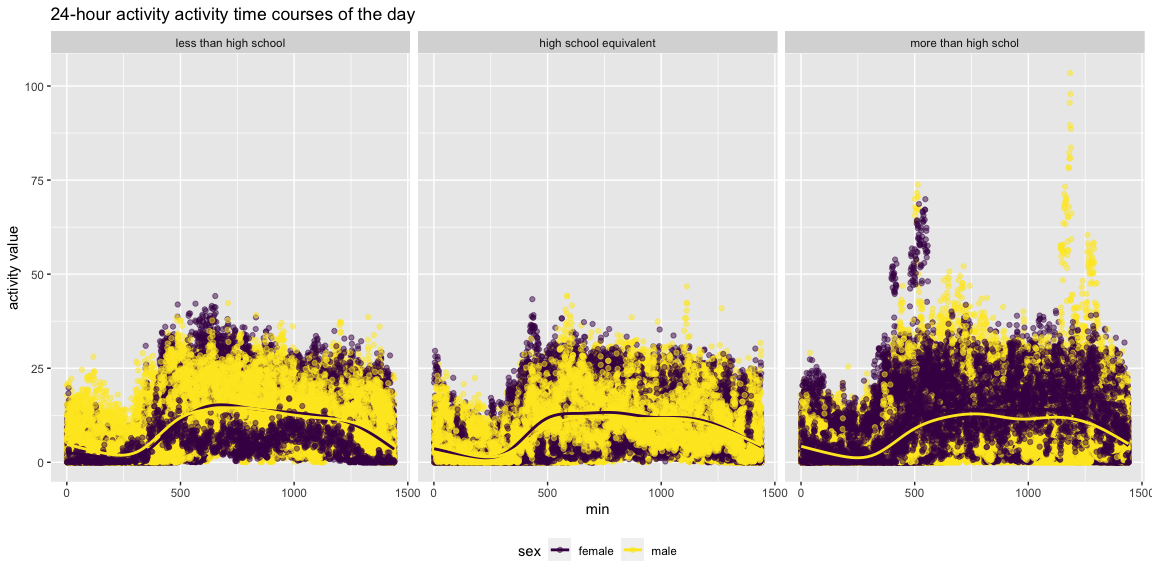
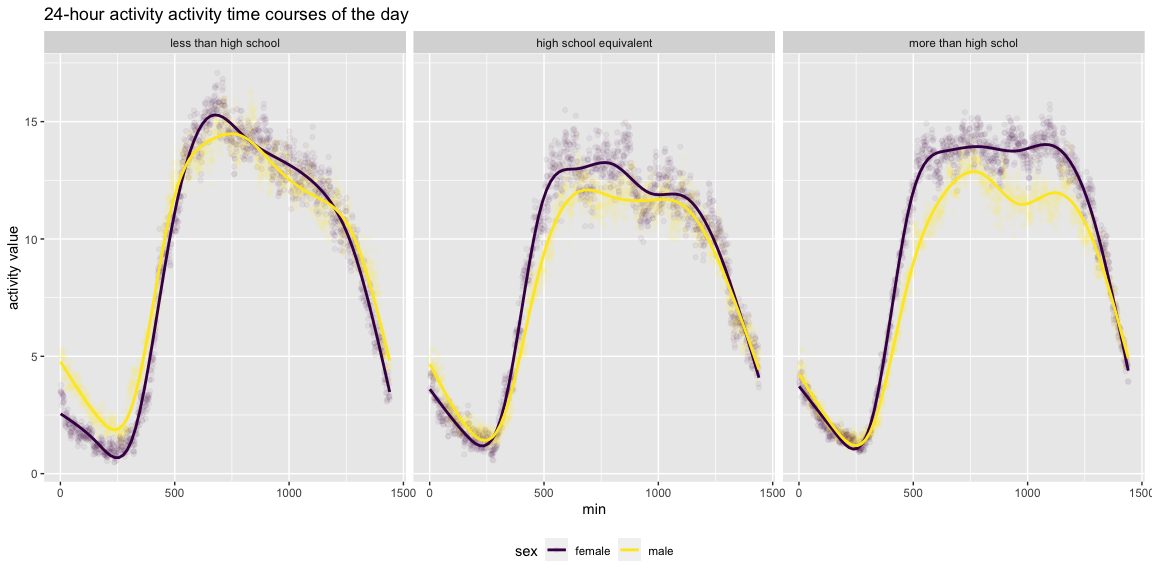
finalized plot for problem 3

diff --git a/p8105_hw3_yj2803.md b/p8105_hw3_yj2803.md
@@ -424,9 +424,10 @@ compared to other education levels.
 
 ``` r
 df_mims_cleaned |> 
-  group_by(seqn, min) |> 
-  ggplot(aes(x = min, y = mims_values, color = sex)) +
-  geom_point(alpha = .5) +
+  group_by(min, sex, education) |> 
+  summarise(avg_mims_values = mean(mims_values)) |> 
+  ggplot(aes(x = min, y = avg_mims_values, color = sex)) +
+  geom_point(alpha = .05) +
   geom_smooth(se = F) +
   facet_grid(~ education) +
   labs(
@@ -440,24 +441,3 @@ df_mims_cleaned |>
 ```
 
 ![](p8105_hw3_yj2803_files/figure-gfm/unnamed-chunk-18-1.png)<!-- -->
-
-``` r
-
-df_mims_cleaned |> 
-  group_by(min, sex, education) |> 
-  summarise(avg_mims_values = mean(mims_values)) |> 
-  ggplot(aes(x = min, y = avg_mims_values, color = sex)) +
-  geom_point(alpha = .5) +
-  geom_smooth(se = F) +
-  facet_grid(~ education) +
-  labs(
-    title = "24-hour activity activity time courses of the day",
-    y = "activity value"
-  ) +
-  theme(legend.position = "bottom") +
-  viridis::scale_color_viridis(
-    discrete = TRUE
-  )
-```
-
-![](p8105_hw3_yj2803_files/figure-gfm/unnamed-chunk-18-2.png)<!-- -->
